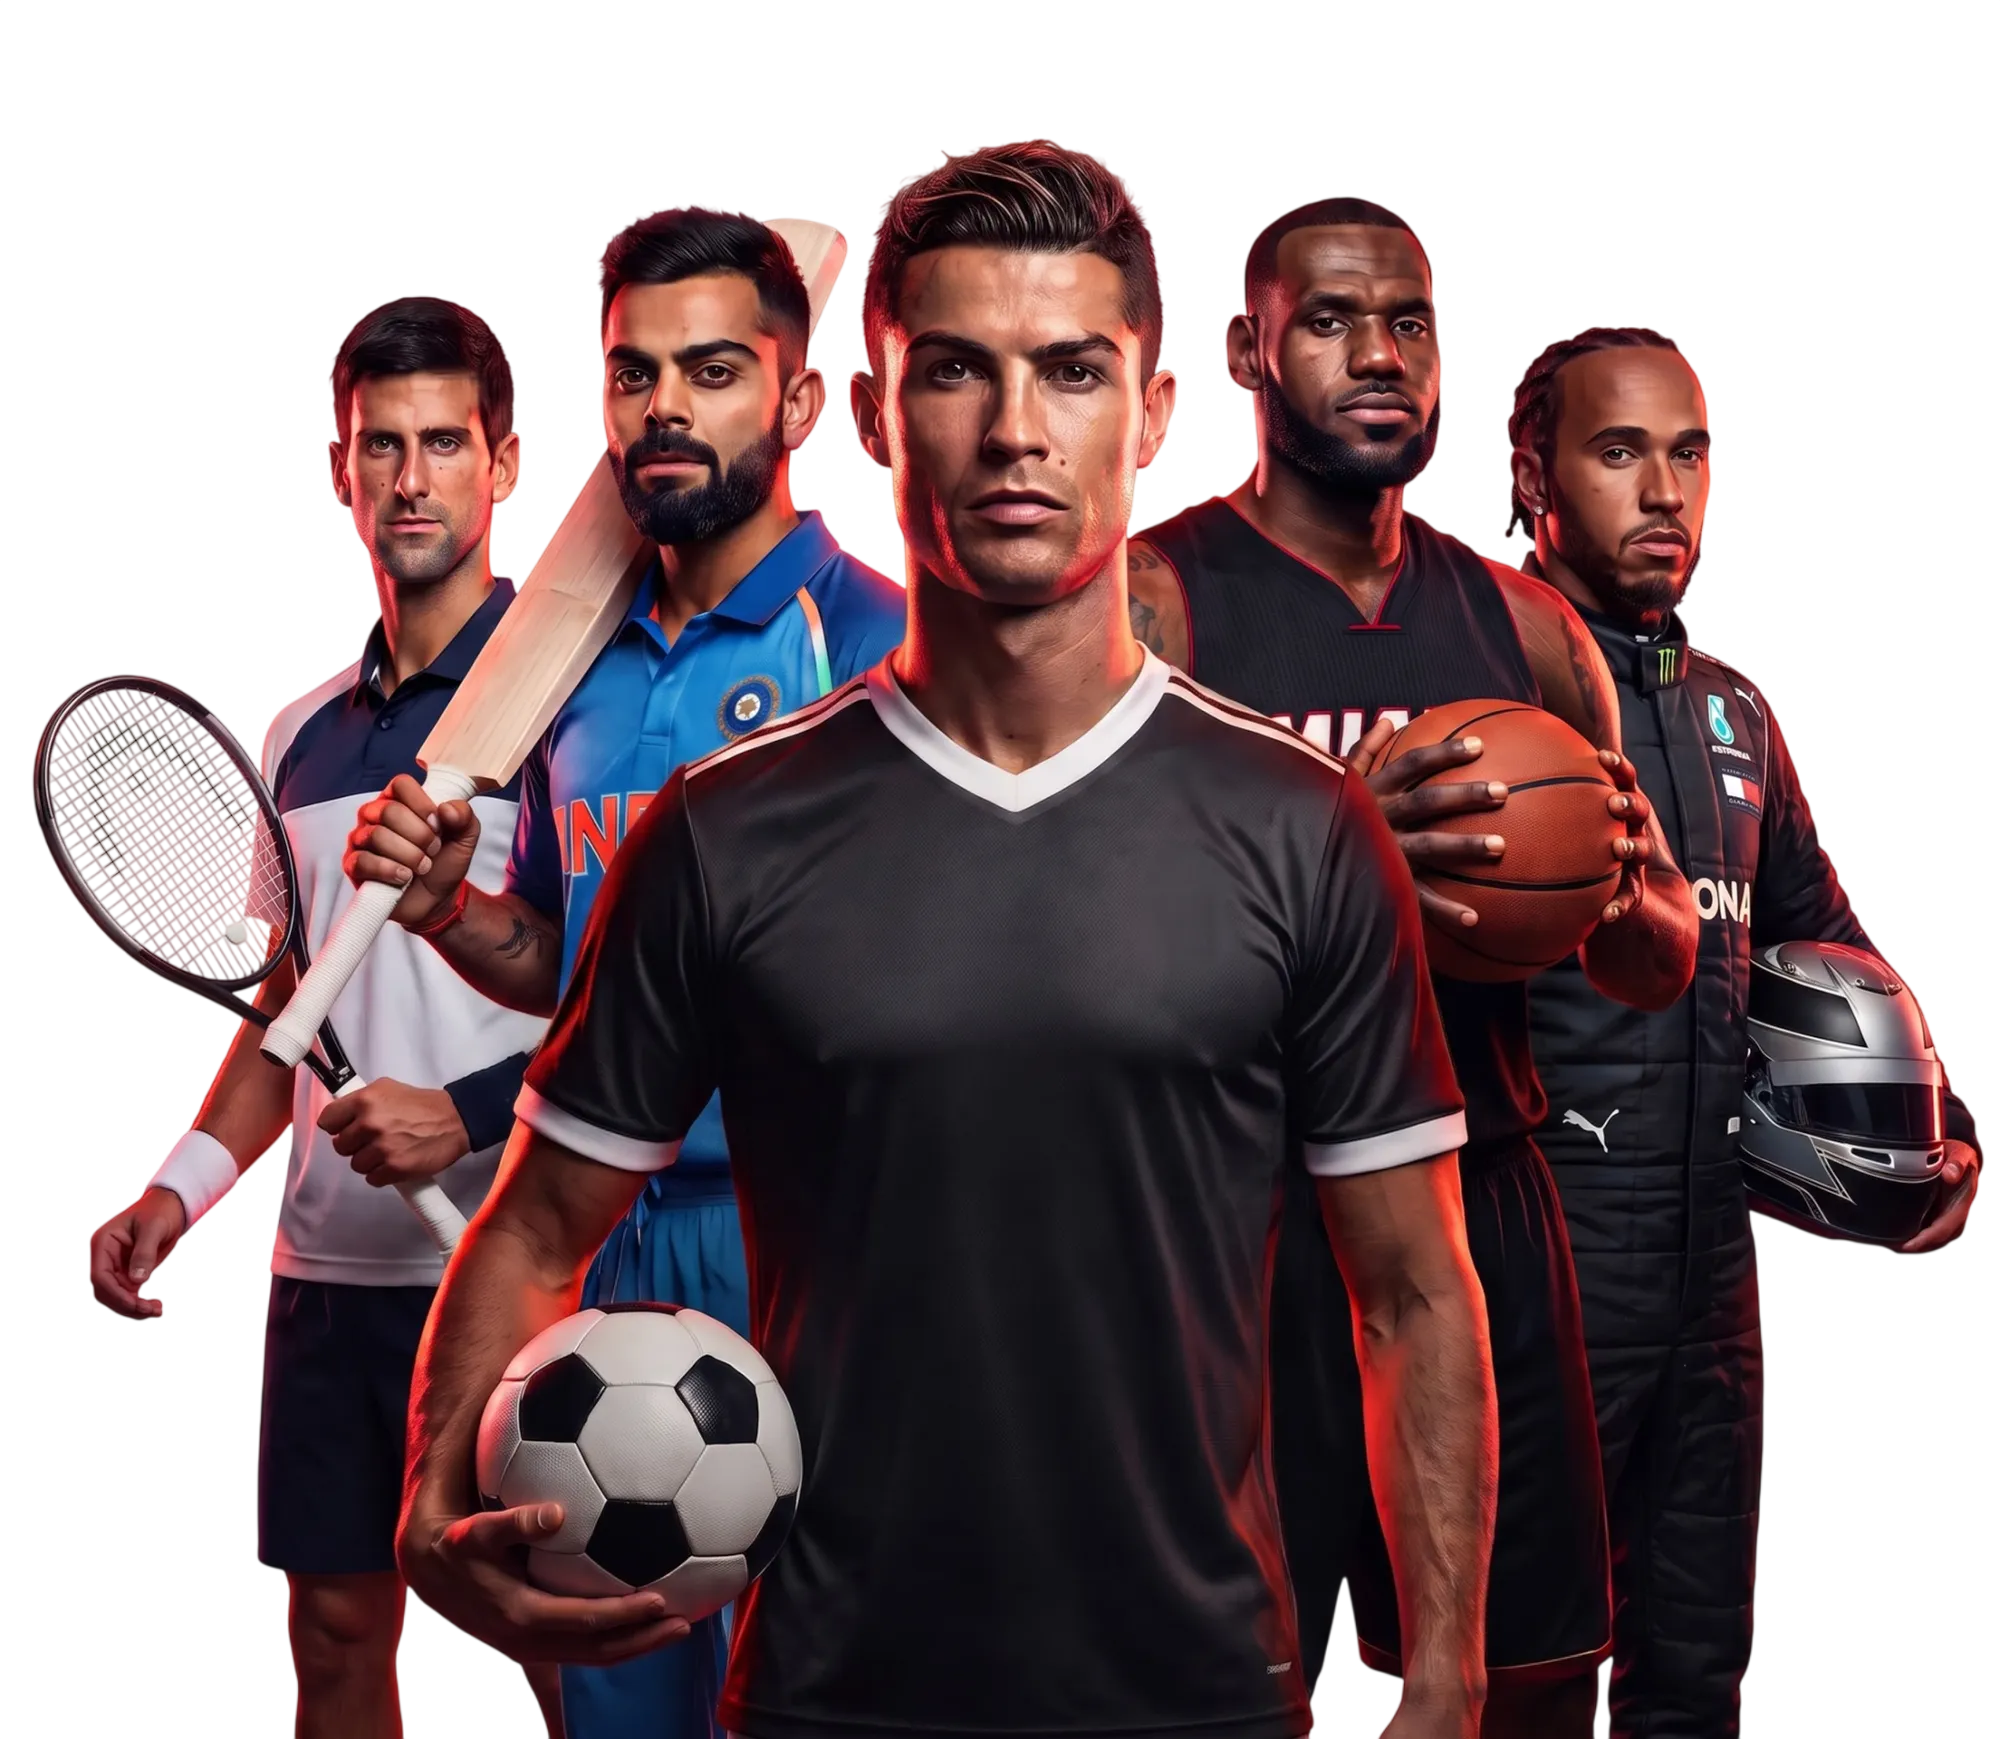
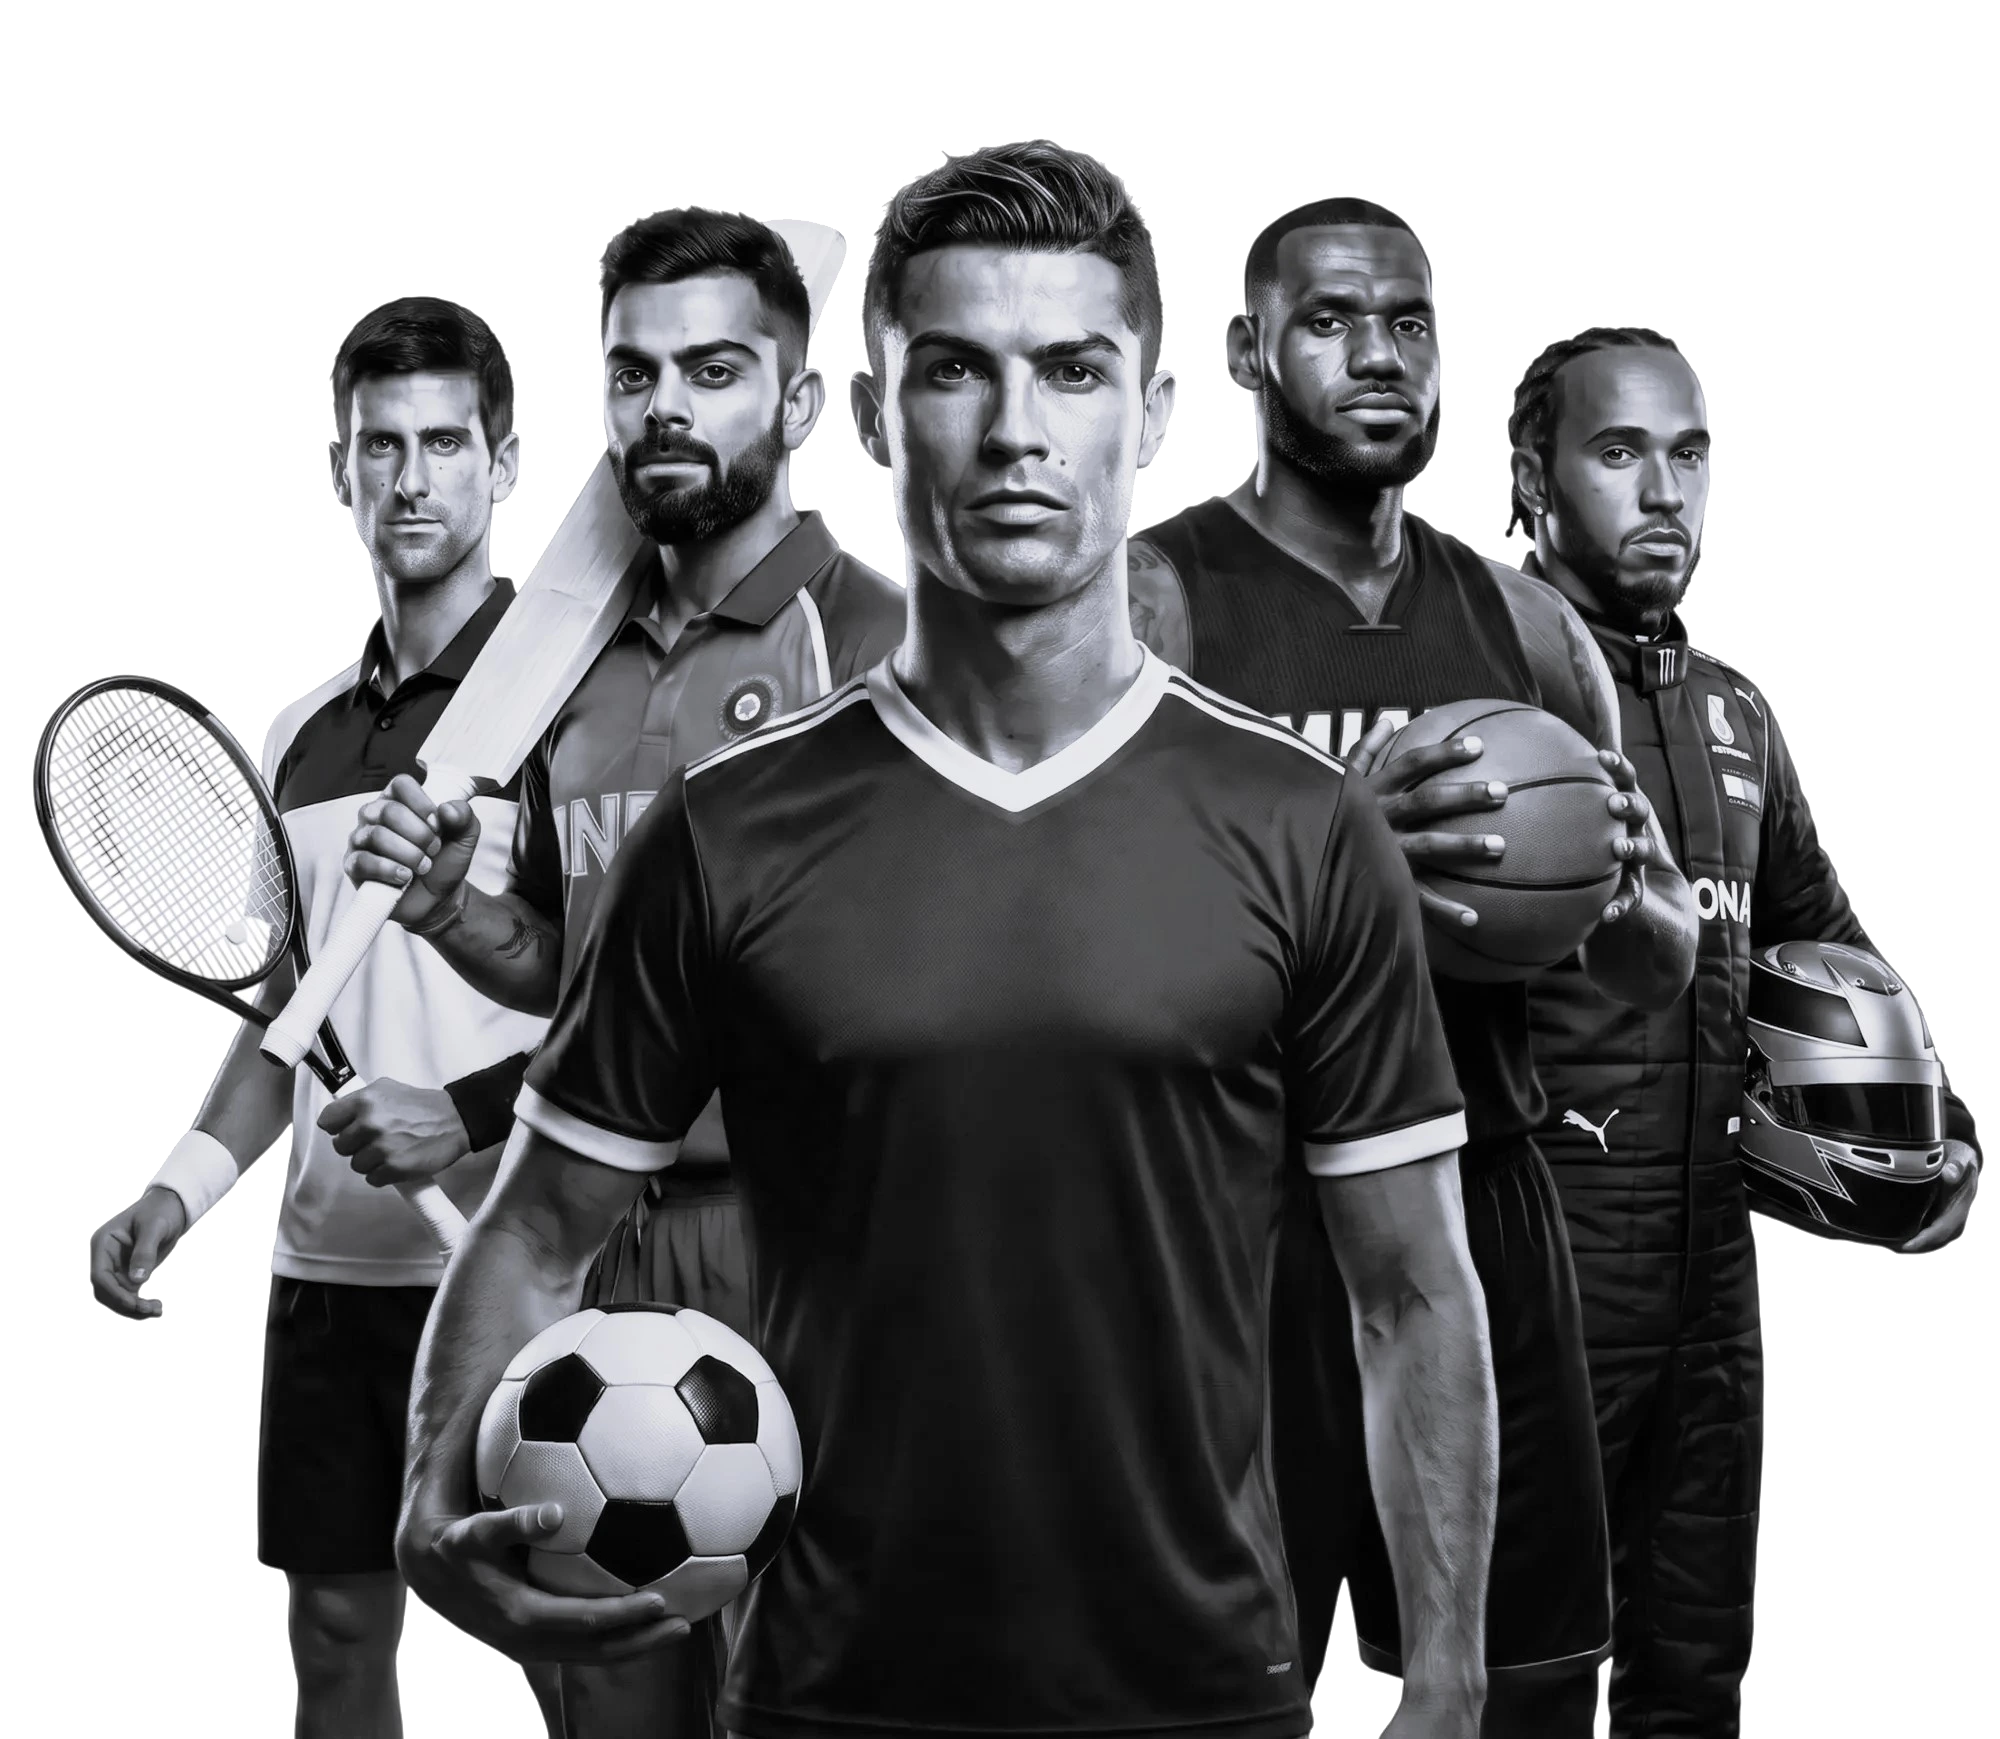
Set up replaced hero image, cut out its white background
The replacement img-1 was a JPG with a flat white background (JPG
can't carry transparency), so it would have rendered as a white box
over the orange hero. Removed the background via a flood-fill from
the image edges (keeping only connected white pixels, so white
clothing/equipment in the photo stayed intact) and re-exported as a
transparent WebP under the original img-1.webp filename, so the
existing hero <img> and social-preview meta tags didn't need
updating.

Also fixed the og:url/og:image/twitter:image meta tags, which still
pointed at the old, now-deleted sayyafmugal.github.io/amgfx- repo -
updated to the current abamgfx-sudo1.github.io/portfolio domain.

diff --git a/index.html b/index.html
@@ -17,12 +17,12 @@
     <meta property="og:site_name" content="AMGFX">
     <meta property="og:title" content="AMGFX - Graphic Designer">
     <meta property="og:description" content="AMGFX is a premium creative studio by Abdullah Mushtaq, specializing in sports poster design, brand identity, and visual storytelling.">
-    <meta property="og:url" content="https://sayyafmugal.github.io/amgfx-/">
-    <meta property="og:image" content="https://sayyafmugal.github.io/amgfx-/assets/imgs/pages/img-1.webp">
+    <meta property="og:url" content="https://abamgfx-sudo1.github.io/portfolio/">
+    <meta property="og:image" content="https://abamgfx-sudo1.github.io/portfolio/assets/imgs/pages/img-1.webp">
     <meta name="twitter:card" content="summary_large_image">
     <meta name="twitter:title" content="AMGFX - Graphic Designer">
     <meta name="twitter:description" content="AMGFX is a premium creative studio by Abdullah Mushtaq, specializing in sports poster design, brand identity, and visual storytelling.">
-    <meta name="twitter:image" content="https://sayyafmugal.github.io/amgfx-/assets/imgs/pages/img-1.webp">
+    <meta name="twitter:image" content="https://abamgfx-sudo1.github.io/portfolio/assets/imgs/pages/img-1.webp">
     <!-- Favicon icon-->
     <link rel="shortcut icon" type="image/x-icon" href="assets/imgs/template/logo/AM white.png">
 
